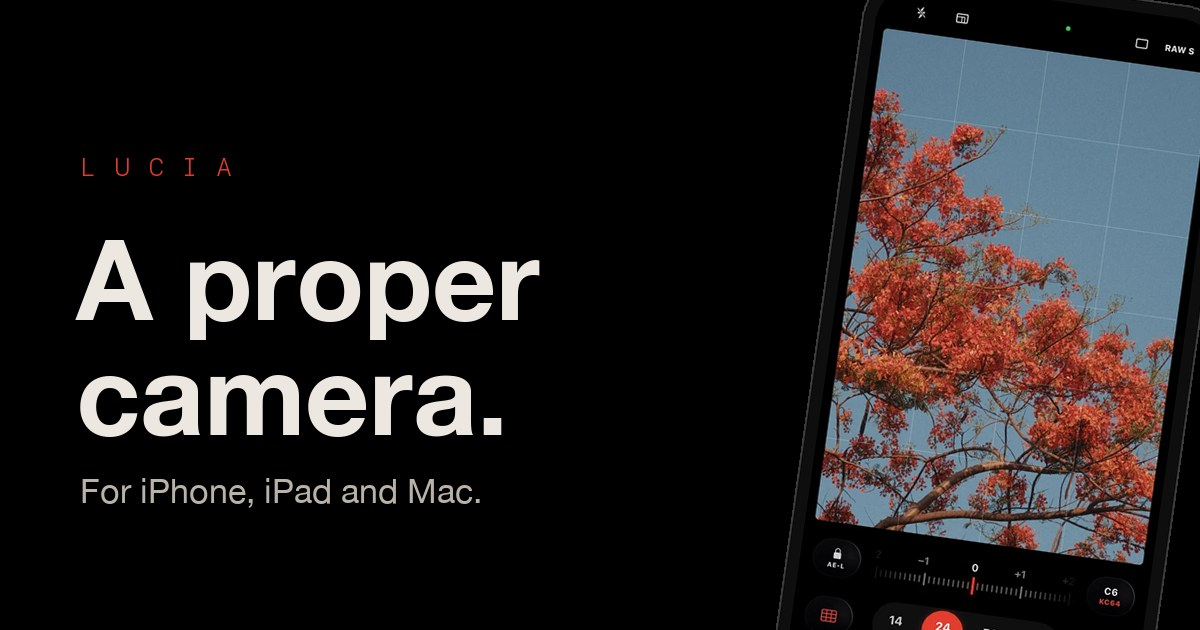
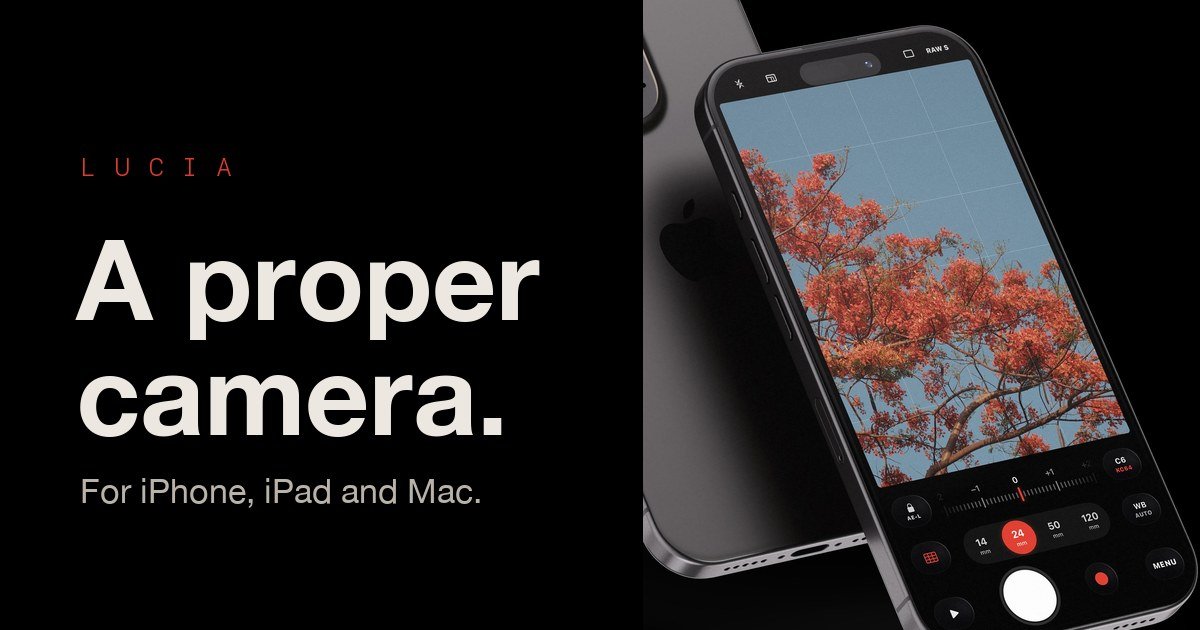
Hero und Link-Vorschau: Marios Photoshop-Mockup iPhone_16_Mockup_Lucia-7 (Mario 261114)

diff --git a/index.html b/index.html
@@ -48,8 +48,8 @@
   @media (prefers-reduced-motion:reduce) { #tipp { border-right:0; animation:none; } }
   .top .bild { min-width:0; }
   .top .bild img { display:block; width:100%; height:auto; }
-  .top .innen { grid-template-columns:minmax(0, 5fr) minmax(0, 7fr); }
-  @media (max-width:760px) { .top .innen { grid-template-columns:1fr; gap:0; } .top .bild { margin:8px -20px 0; } .top .bild img { width:112%; max-width:none; margin-left:-10%; } }
+  .top .innen { grid-template-columns:minmax(0, 6fr) minmax(0, 6fr); }
+  @media (max-width:760px) { .top .innen { grid-template-columns:1fr; gap:0; } .top .bild { margin:8px -20px 0; } .top .bild img { width:104%; max-width:none; margin-left:-2%; } }
 
   /* 2 WAS LUCIA ANDERS MACHT */
   .anders { background:linear-gradient(180deg, #000 0%, var(--grund) 30%); padding-top:clamp(40px, 7vw, 96px); padding-bottom:clamp(48px, 8vw, 110px); }
@@ -153,7 +153,7 @@
       <p class="zeile" aria-label="For when you forgot your camera.">For when you <span id="tipp">forgot your camera.</span></p>
       <a class="knopf" href="#beta">Get the beta</a>
     </div>
-    <div class="bild"><img src="img/hero.webp" alt="Lucia viewfinder on iPhone" width="1120" height="895" fetchpriority="high"></div>
+    <div class="bild"><img src="img/hero.webp" alt="Lucia viewfinder on iPhone" width="1400" height="1340" fetchpriority="high"></div>
   </div>
 </section>
 
